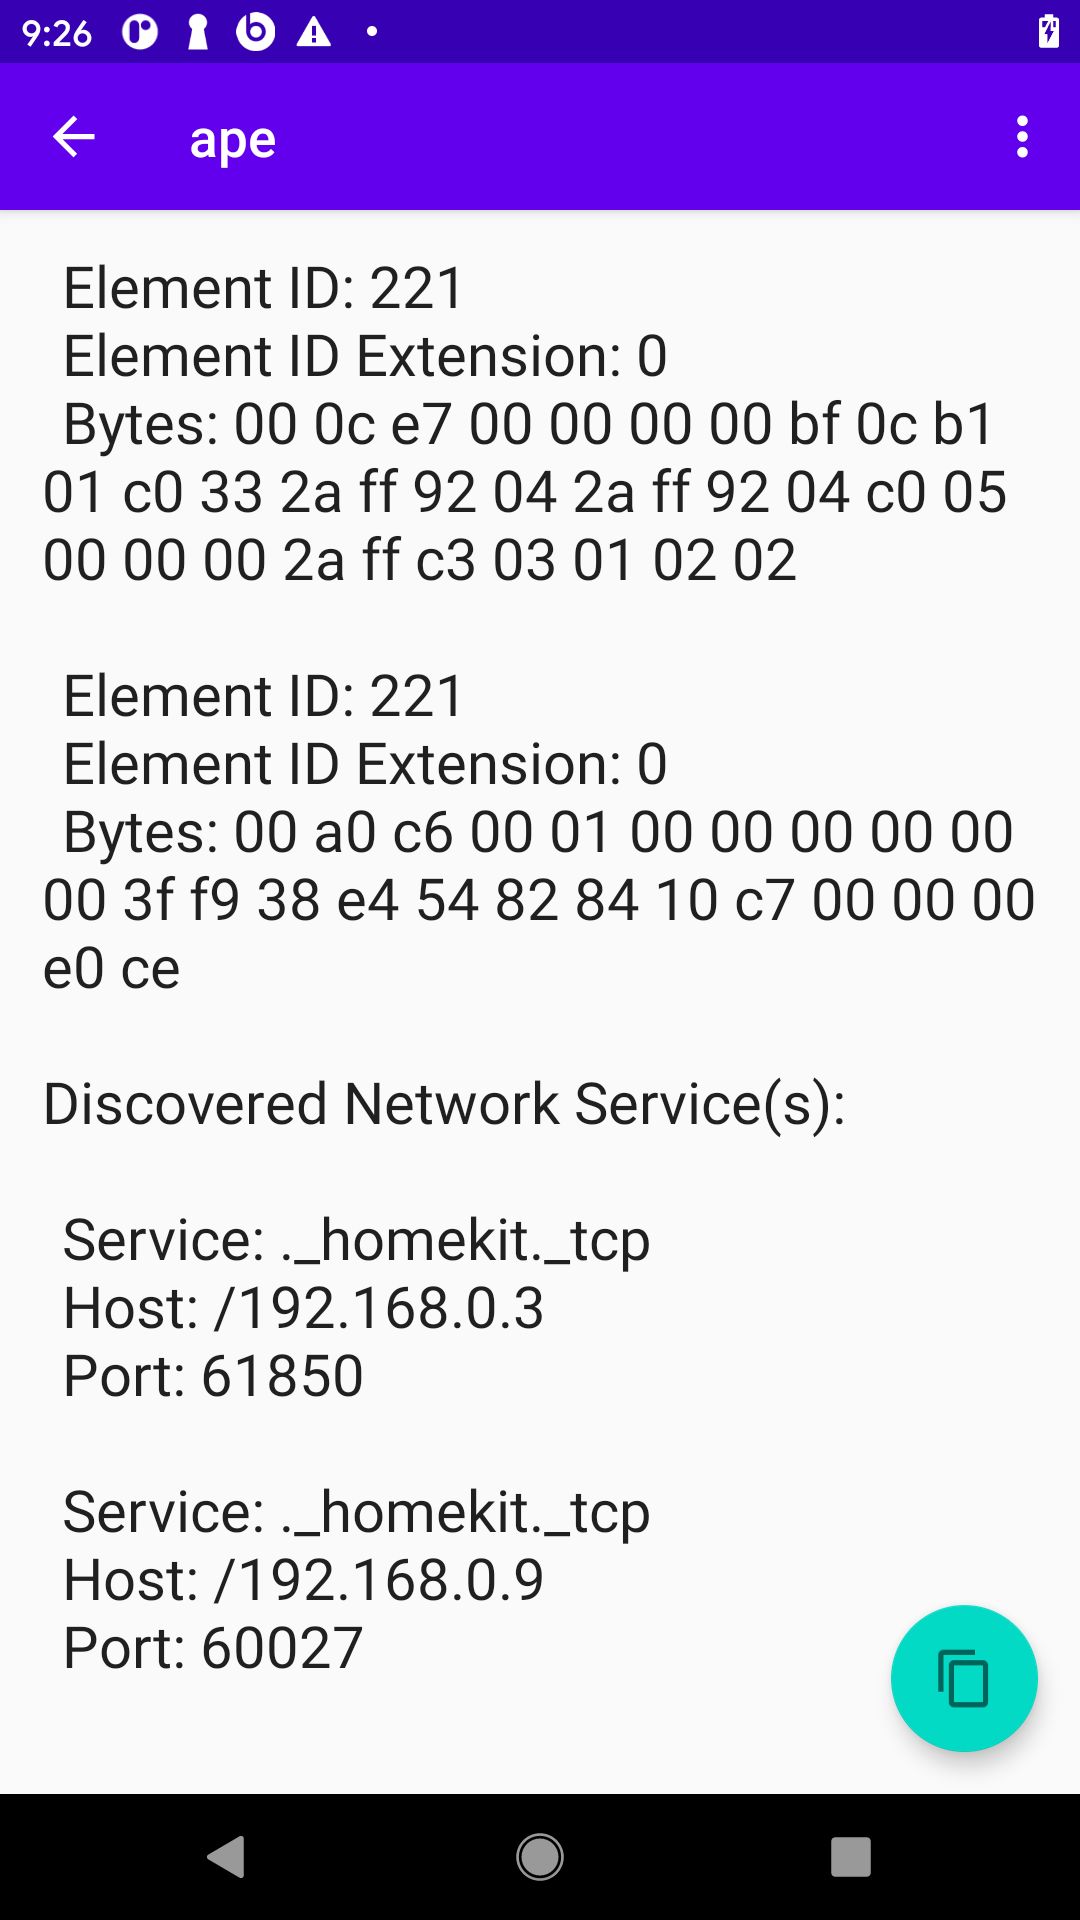
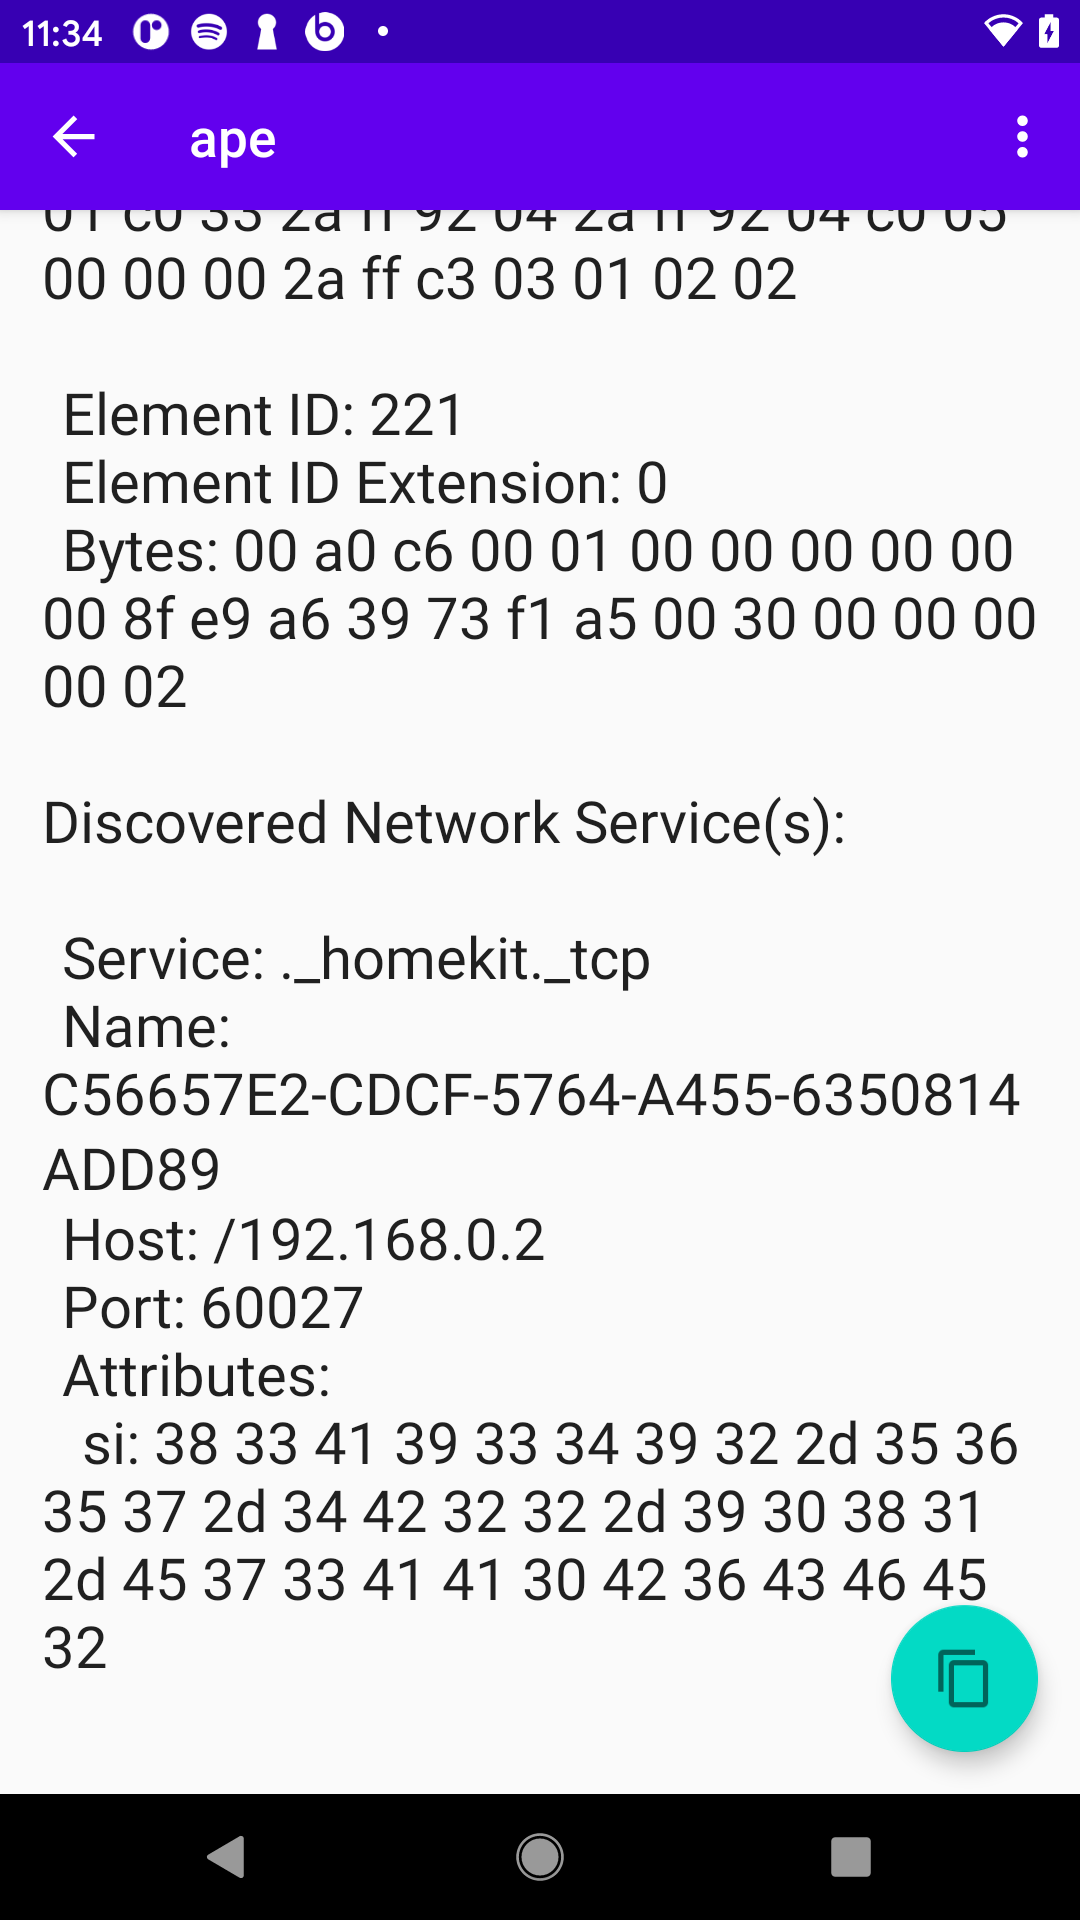
show attributes of discovered services

diff --git a/wifi-tool/app/src/main/java/io/github/tewarid/wifitool/ItemDetailActivity.kt b/wifi-tool/app/src/main/java/io/github/tewarid/wifitool/ItemDetailActivity.kt
@@ -58,7 +58,7 @@ class ItemDetailActivity : AppCompatActivity(), PasswordDialogFragment.PasswordD
         findViewById<FloatingActionButton>(R.id.fab).setOnClickListener { view ->
             val clipboard: ClipboardManager =
                 getSystemService(Context.CLIPBOARD_SERVICE) as ClipboardManager
-            val clip = ClipData.newPlainText("", scanResult.detailView)
+            val clip = ClipData.newPlainText("", fragment.getDetails())
             clipboard.setPrimaryClip(clip)
             Snackbar.make(view, "Text copied to clipboard", Snackbar.LENGTH_LONG)
                     .setAction("Action", null).show()
@@ -125,12 +125,12 @@ class ItemDetailActivity : AppCompatActivity(), PasswordDialogFragment.PasswordD
         } else {
             wifiConfig?.allowedKeyManagement?.set(WifiConfiguration.KeyMgmt.NONE)
         }
-        var id = findNetworkId(network, ssid)
+        var id = findNetworkId()
         if (id == -1) {
             if (wifiManager.addNetwork(wifiConfig) == -1) {
                 return
             }
-            id = findNetworkId(network, ssid)
+            id = findNetworkId()
         } else {
             wifiConfig = null
         }
@@ -143,8 +143,9 @@ class ItemDetailActivity : AppCompatActivity(), PasswordDialogFragment.PasswordD
         }
     }
 
+    @Suppress("DEPRECATION")
     @SuppressLint("MissingPermission")
-    private fun findNetworkId(network: ScanResult, ssid: String?): Int {
+    private fun findNetworkId(): Int {
         for (item in wifiManager.configuredNetworks) {
             if (item.SSID == wifiConfig?.SSID) {
                 return item.networkId
@@ -287,14 +288,23 @@ class ItemDetailActivity : AppCompatActivity(), PasswordDialogFragment.PasswordD
         }
     }
 
+    @ExperimentalUnsignedTypes
     private fun refreshDetails() {
         val sb = StringBuilder()
             .append("\nDiscovered Network Service(s):\n")
         for (item in SERVICE_MAP.values) {
             with(sb) {
                 append("\n\tService: ${item.serviceType}\n")
+                append("\tName: ${item.serviceName}\n")
                 append("\tHost: ${item.host}\n")
                 append("\tPort: ${item.port}\n")
+                if (Build.VERSION.SDK_INT < Build.VERSION_CODES.LOLLIPOP)
+                    return
+                append("\tAttributes:\n")
+                for (key in item.attributes.keys) {
+                    val bytesHex = item.attributes[key]?.toUByteArray()?.joinToString(" ") { it.toString(16).padStart(2, '0') }
+                    append("\t\t$key: ${bytesHex}\n")
+                }
             }
         }
         fragment.setDetails(scanResult.detailView + sb.toString())

diff --git a/wifi-tool/app/src/main/java/io/github/tewarid/wifitool/ItemDetailFragment.kt b/wifi-tool/app/src/main/java/io/github/tewarid/wifitool/ItemDetailFragment.kt
@@ -47,6 +47,10 @@ class ItemDetailFragment : Fragment() {
         }
     }
 
+    fun getDetails(): String {
+        return itemDetailView.text.toString()
+    }
+
     companion object {
         /**
          * The fragment argument representing the item ID that this fragment
